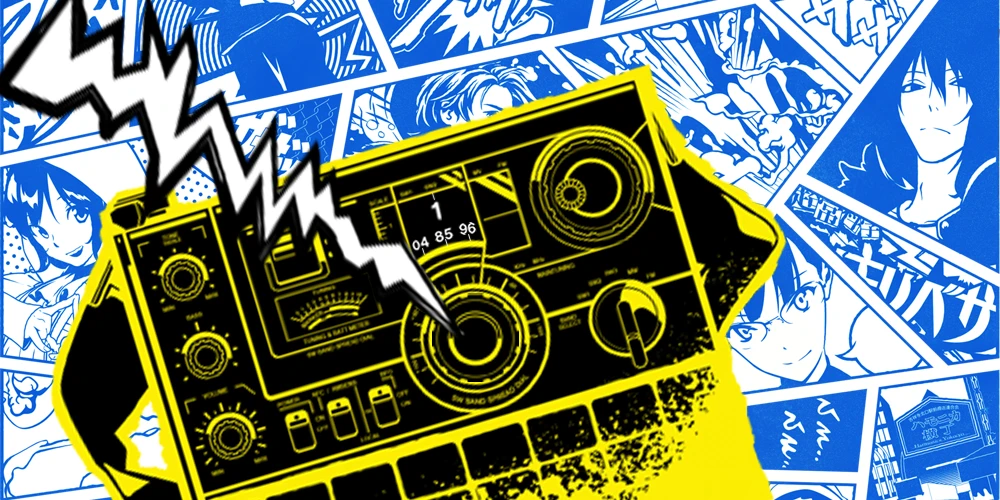
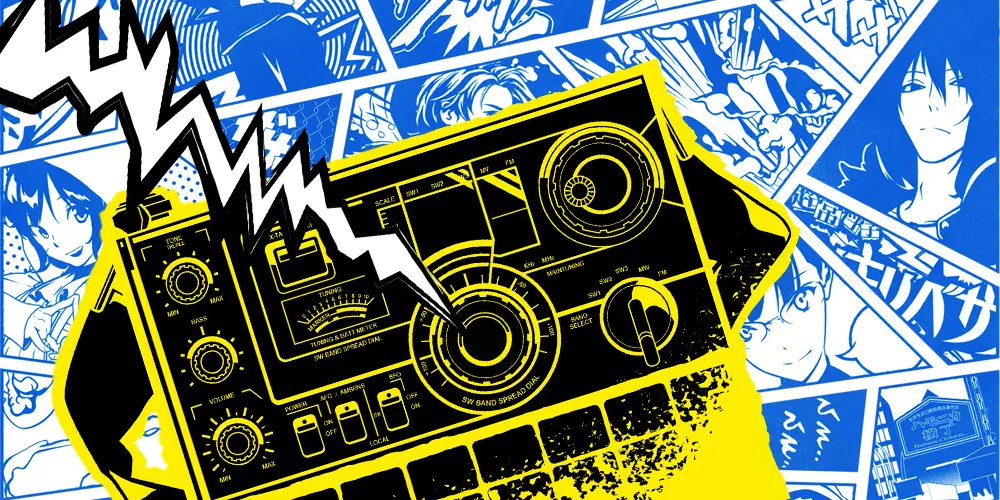
- optimize for CLS - add aria labels to game root component buttons and links - update game images with higher resolution + better quality

Changed region(s): [[0.0, 0.0, 0.806, 1.0]]

diff --git a/src/app/components/game-root/game-root.component.html b/src/app/components/game-root/game-root.component.html
@@ -89,28 +89,31 @@
             </div>
         </div>
     </button>
-    <a [routerLink]="'/games'">
-        <button icon="tuiIconHomeLarge" tuiIconButton appearance="icon" tuiHint="To game list"
+    <a [routerLink]="'/games'" aria-label="To Game List">
+        <button icon="tuiIconHomeLarge" tuiIconButton appearance="icon" tuiHint="To Game List" aria-label="To Game List"
             tuiHintAppearance="onDark">
         </button>
     </a>
-    <a [routerLink]="'search'">
-        <button icon="tuiIconSearchLarge" tuiIconButton appearance="icon" tuiHint="Search" tuiHintAppearance="onDark">
+    <a [routerLink]="'search'" aria-label="Search">
+        <button icon="tuiIconSearchLarge" tuiIconButton appearance="icon" tuiHint="Search" aria-label="Search"
+         tuiHintAppearance="onDark">
         </button>
     </a>
     <div class="spacer"></div>
     <h2 class="game-root_header-text" [innerHTML]="displayName"></h2>
     <div class="spacer"></div>
-    <button icon="tuiIconHelpCircleLarge" tuiIconButton appearance="icon" tuiHint="Game Info" tuiHintAppearance="onDark"
+    <button icon="tuiIconHelpCircleLarge" tuiIconButton appearance="icon" tuiHint="Game Info" aria-label="Game Info"
+        tuiHintAppearance="onDark"
         (click)="showGameHelp(dialogTemplate)">
     </button>
-    <a [routerLink]="'/settings'">
-        <button icon="tuiIconSettingsLarge" tuiIconButton appearance="icon" tuiHint="Global Settings"
+    <a [routerLink]="'/settings'"  aria-label="Global Settings">
+        <button icon="tuiIconSettingsLarge" tuiIconButton appearance="icon" tuiHint="Global Settings" aria-label="Global Settings"
             tuiHintAppearance="onDark">
         </button>
     </a>
     <button [icon]="night.value? 'tuiIconSunLarge': 'tuiIconMoonLarge' " tuiIconButton appearance="icon"
-        [tuiHint]="this.night.value?'Switch to light mode':'Switch to night mode'" tuiHintAppearance="onDark"
+        [tuiHint]="this.night.value?'Switch to light mode':'Switch to night mode'" aria-label="Switch mode"
+        tuiHintAppearance="onDark"
         (click)="night.toggle()">
     </button>
     }

diff --git a/src/assets/styles/components/common/item-card/item-card.less b/src/assets/styles/components/common/item-card/item-card.less
@@ -38,9 +38,19 @@
 
             .item-card-title_name {
                 line-height: 1.5rem;
-                
+
                 margin: 0;
             }
         }
     }
 }
+
+chapter-navigation, .games{
+    .items-list_container {
+        //optimization for CLS, hardcoded proportions since images for chapter nav are 2:1
+        .item-card-image {
+            min-width: calc((var(--container-width) - 2rem) * 0.5);
+            min-height: calc((var(--container-width) - 2rem) * 0.25);
+        }
+    }
+} 

diff --git a/src/assets/styles/components/items-list/items-list.less b/src/assets/styles/components/items-list/items-list.less
@@ -1,6 +1,8 @@
 .items-list {
 
     &_body {
+        --container-width: 80vw;
+
         background-color: var(--background);
         display: flex;
         flex-direction: column;
@@ -26,7 +28,8 @@
         gap: 2rem !important;
         padding: 32px;
         z-index: 1;
-        max-width: 80vw;
+        max-width: var(--container-width);
+        min-width:  var(--container-width);
 
         @media screen and (max-width: 720px) {
             grid-template-columns: repeat(1, minmax(0, 1fr));
